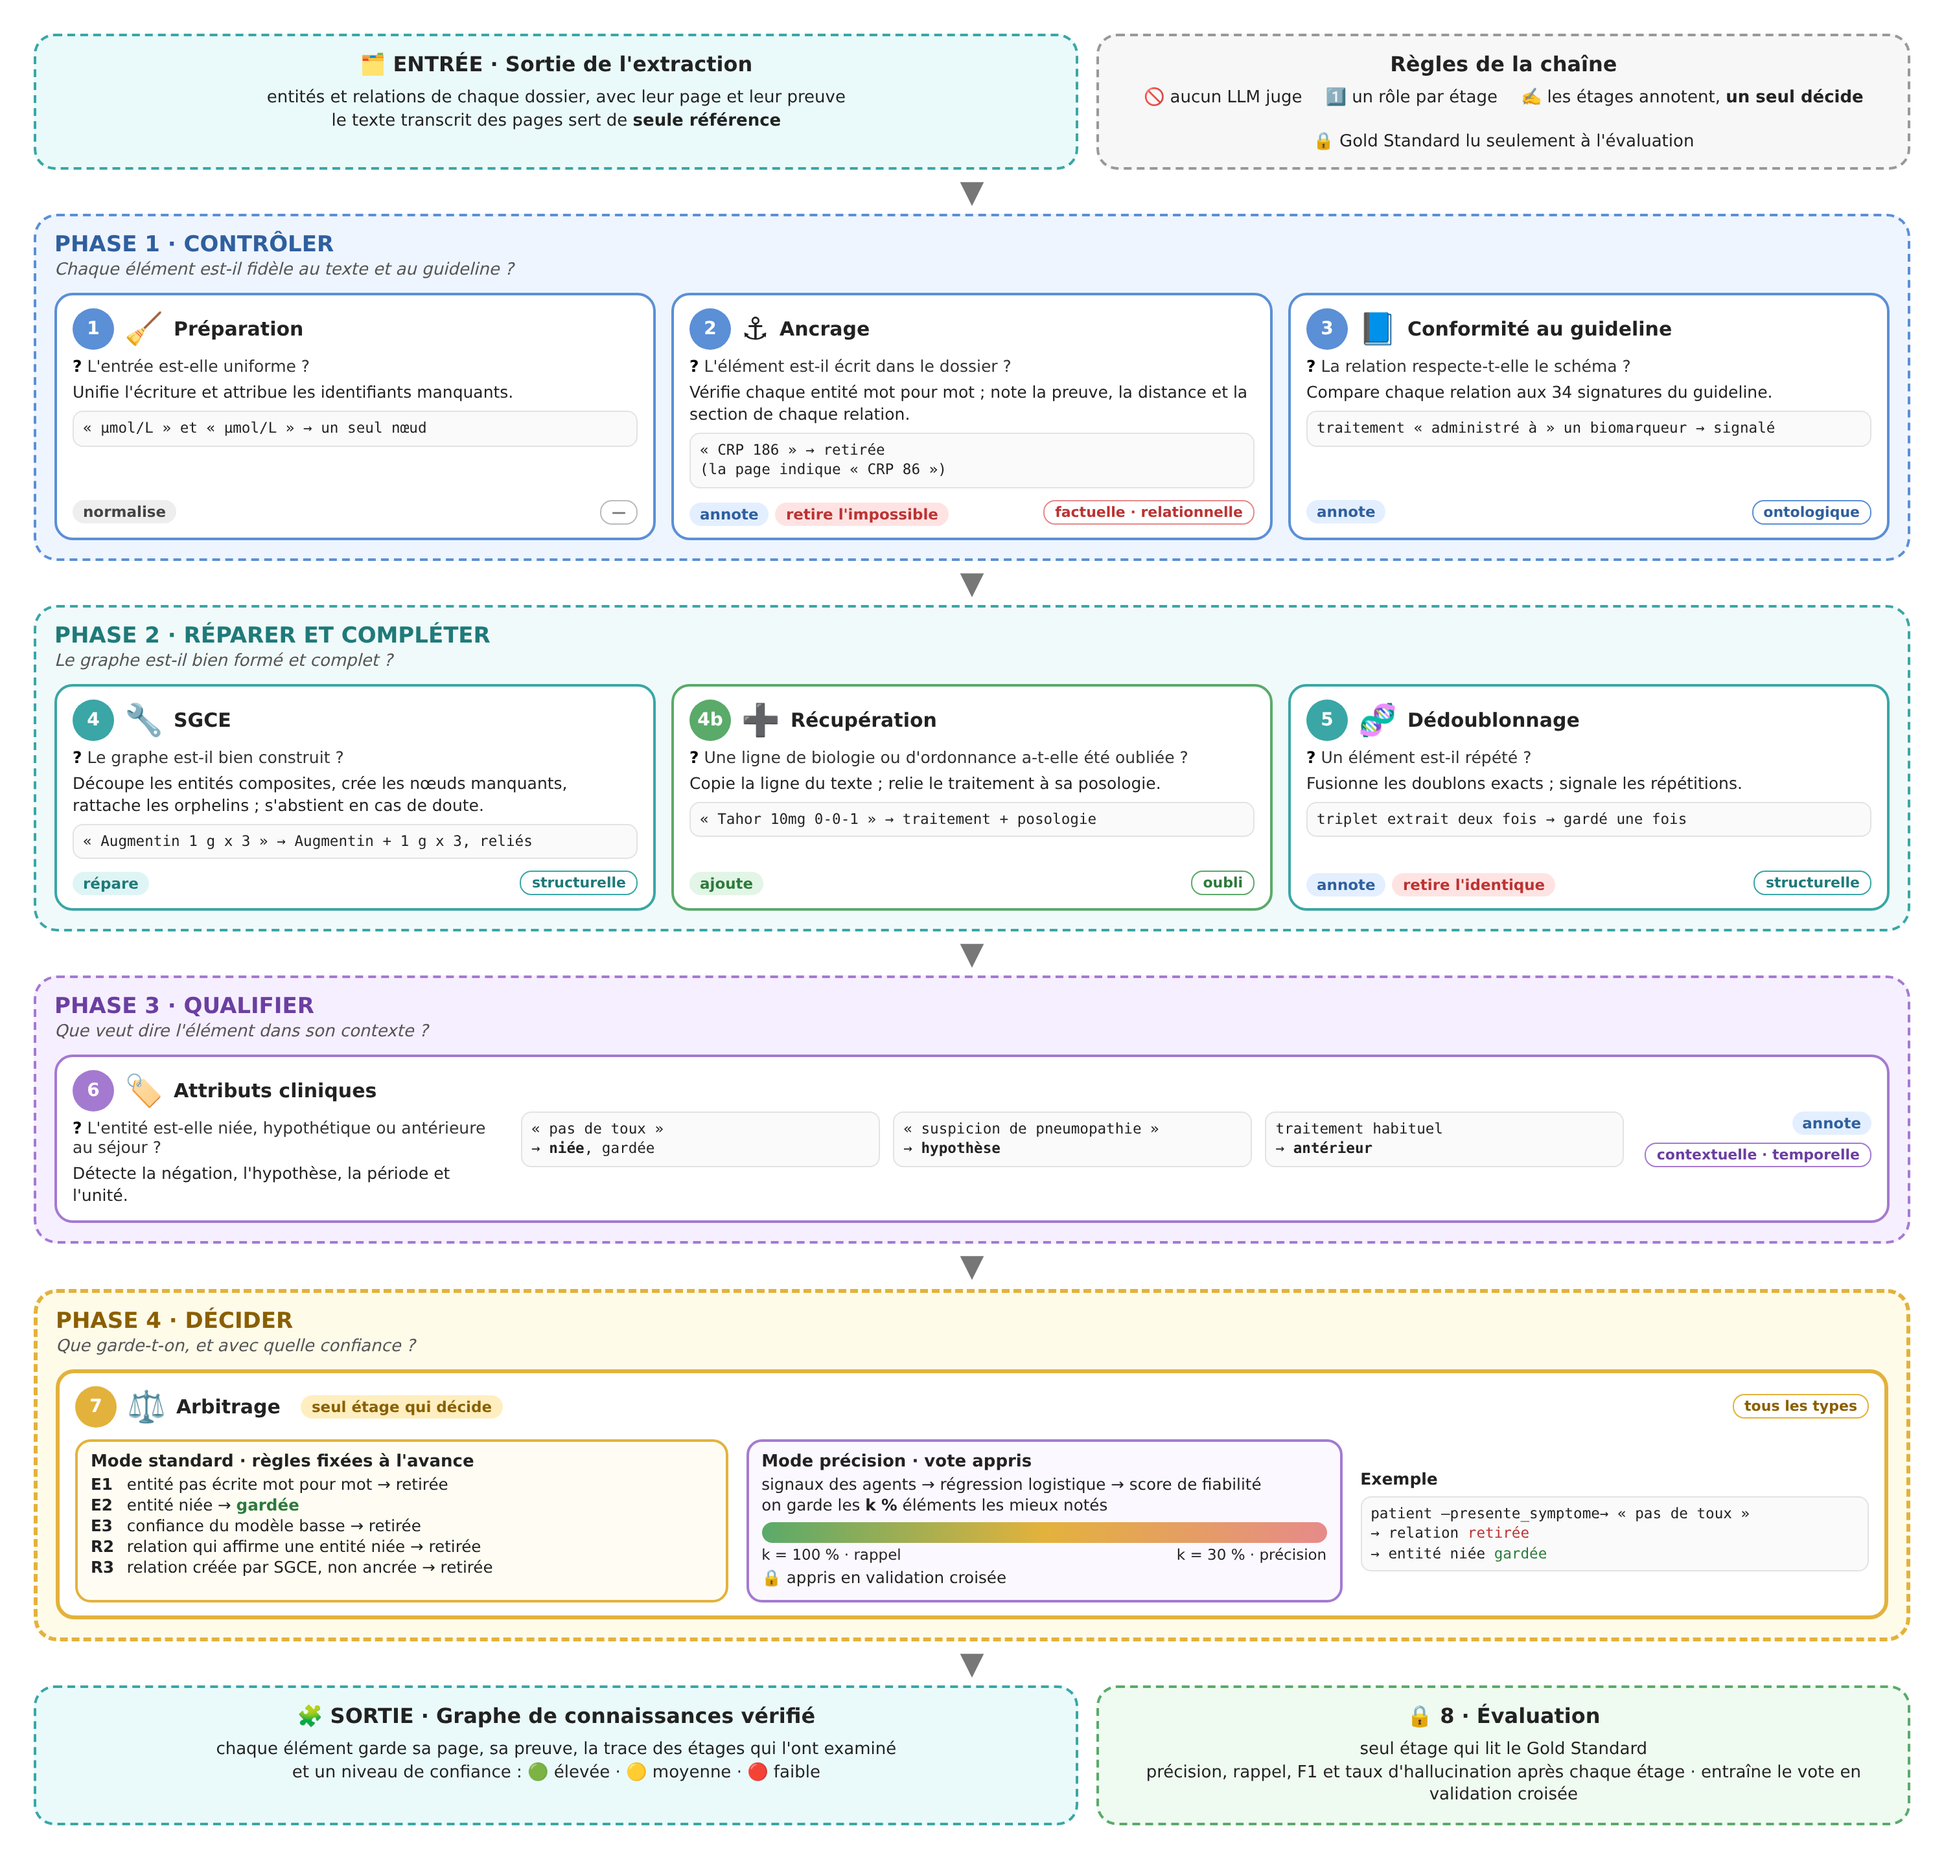
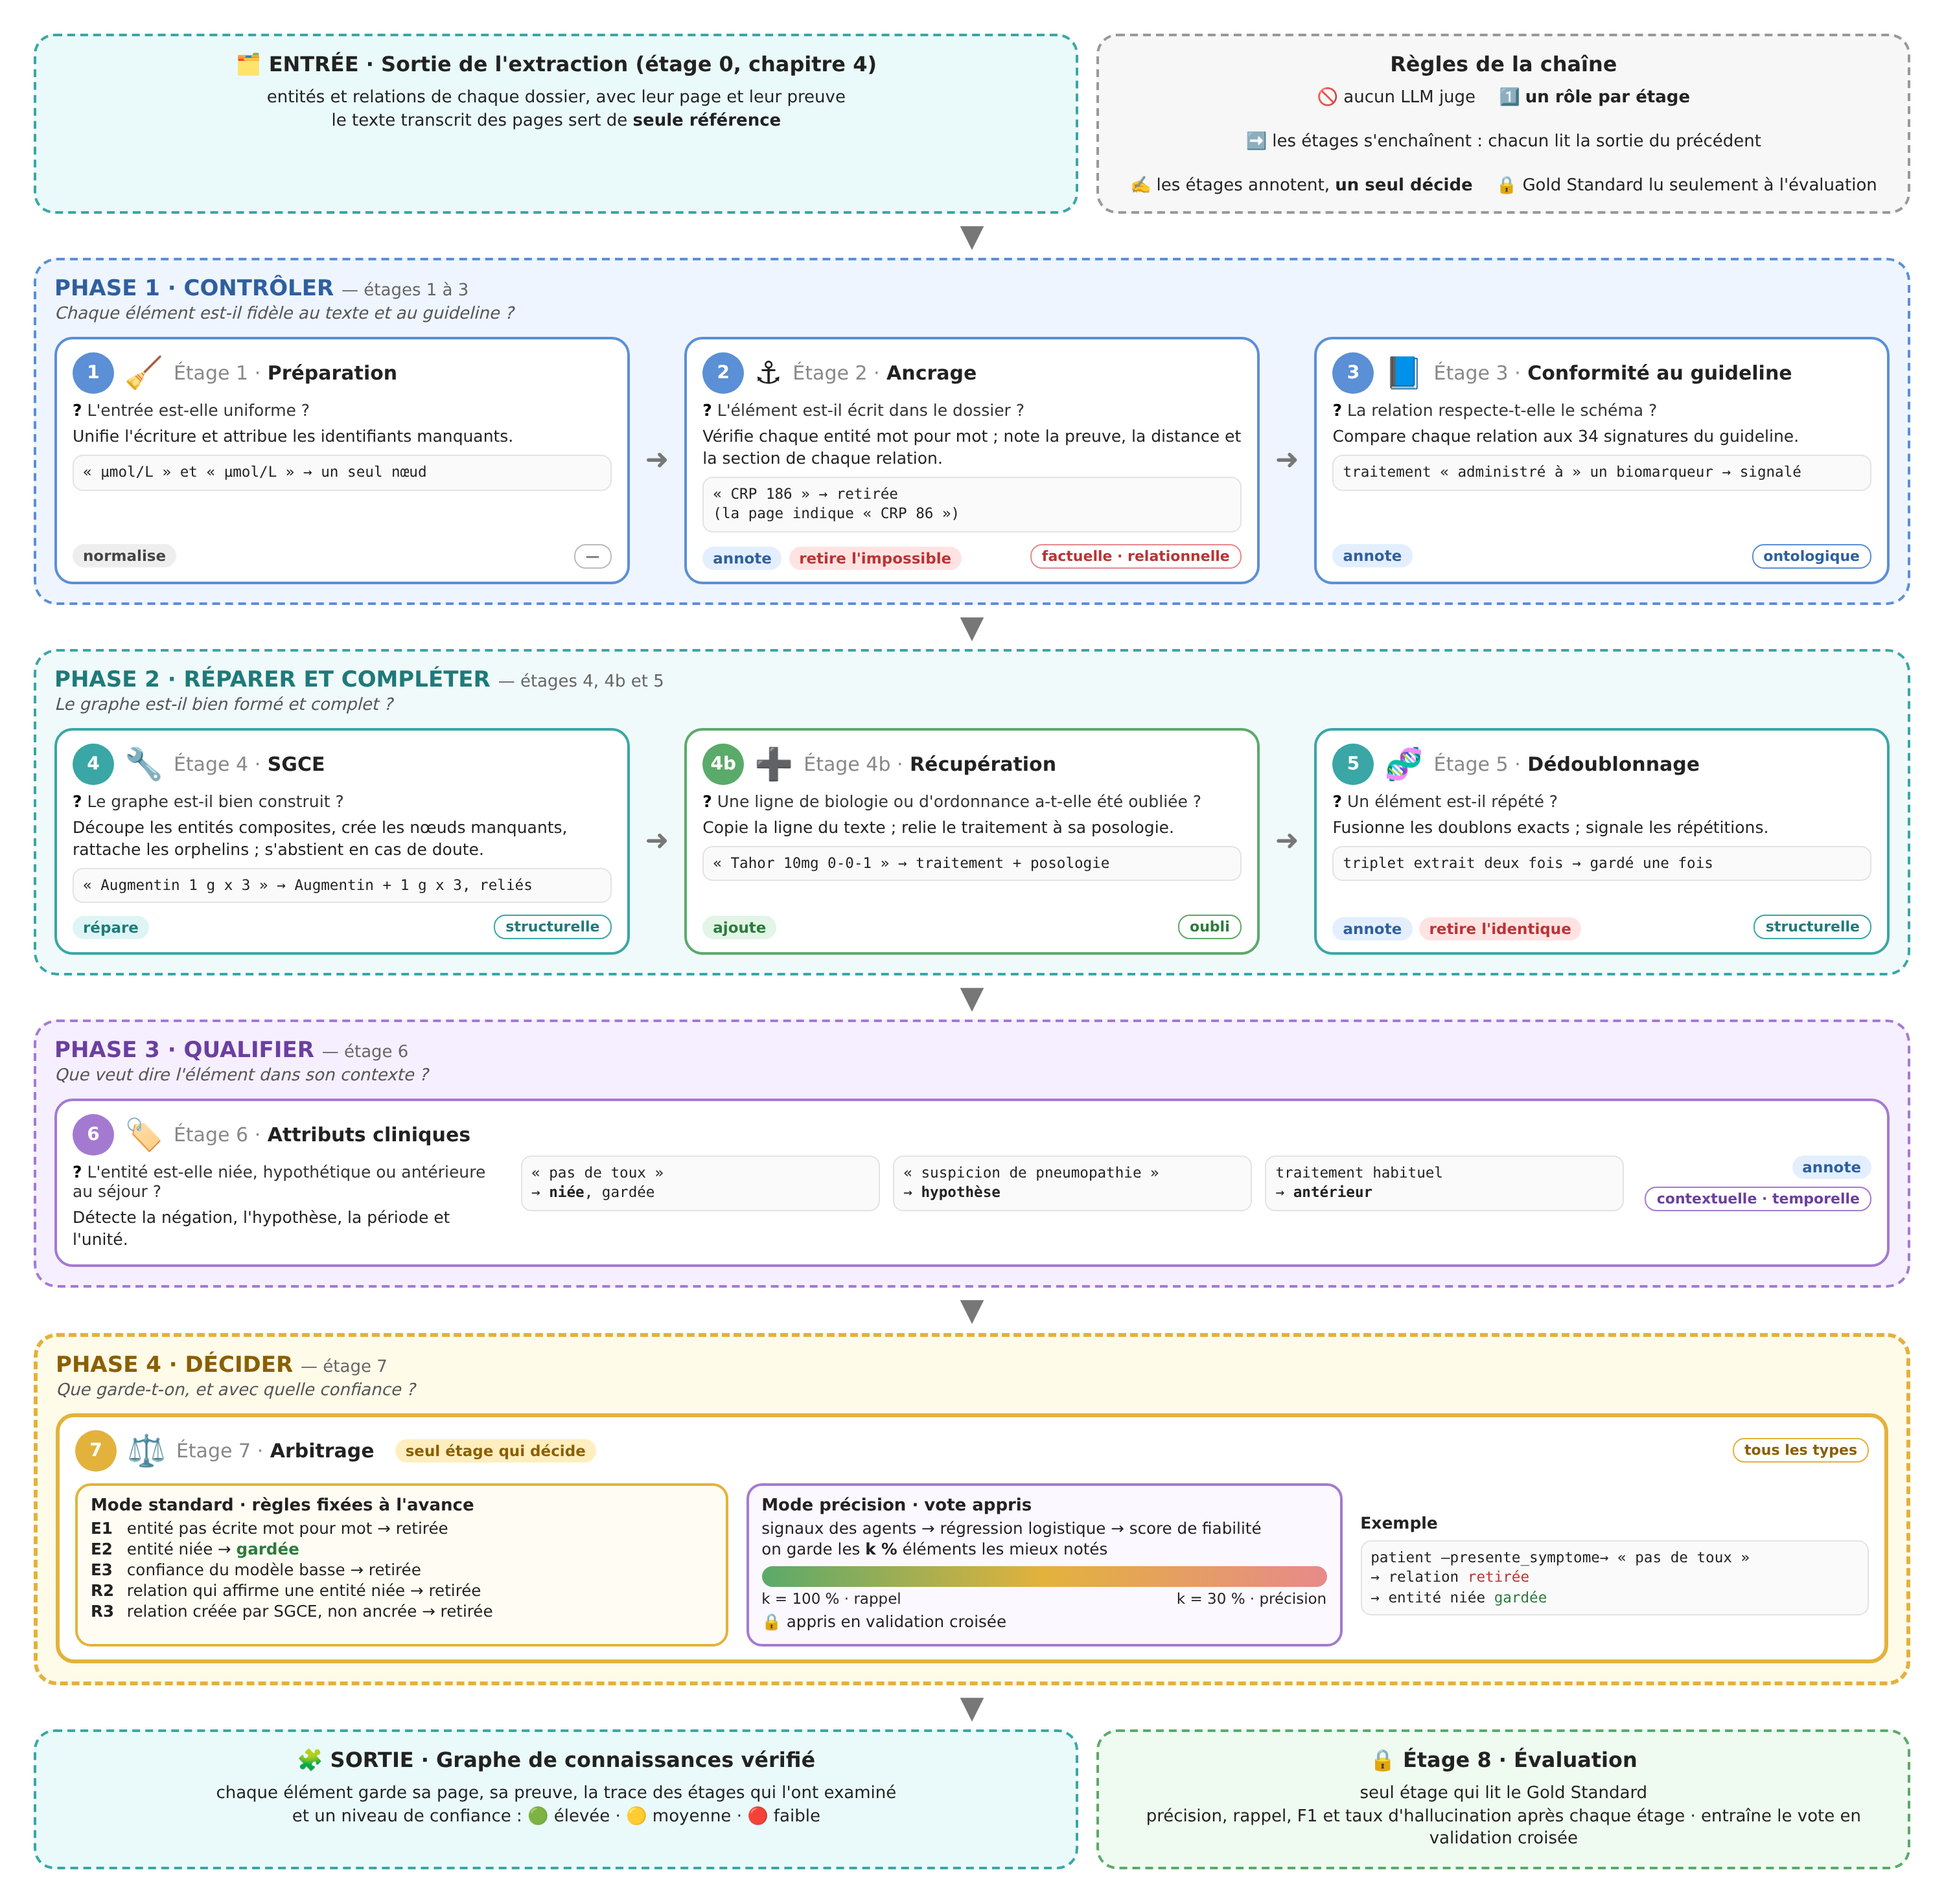
Figure TRACE : numéros d'étage explicites et flèches entre étages
Claude-Session: https://claude.ai/code/session_01U1N2aa47apfcVip95LQDuG

diff --git a/memoire/figures_sources/trace_phases.html b/memoire/figures_sources/trace_phases.html
@@ -27,23 +27,25 @@
 </style></head><body><div id="root">
 
 <div style="display:flex;gap:14px">
- <div class="box teal" style="flex:1.3"><div class="t">🗂 ENTRÉE · Sortie de l'extraction</div><div class="small" style="text-align:center">entités et relations de chaque dossier, avec leur page et leur preuve<br>le texte transcrit des pages sert de <b>seule référence</b></div></div>
- <div class="box grey" style="flex:1"><div class="t">Règles de la chaîne</div><div class="rules"><span>🚫 aucun LLM juge</span><span>1⃣ un rôle par étage</span><span>✍ les étages annotent, <b>un seul décide</b></span><span>🔒 Gold Standard lu seulement à l'évaluation</span></div></div>
+ <div class="box teal" style="flex:1.3"><div class="t">🗂 ENTRÉE · Sortie de l'extraction (étage 0, chapitre 4)</div><div class="small" style="text-align:center">entités et relations de chaque dossier, avec leur page et leur preuve<br>le texte transcrit des pages sert de <b>seule référence</b></div></div>
+ <div class="box grey" style="flex:1"><div class="t">Règles de la chaîne</div><div class="rules"><span>🚫 aucun LLM juge</span><span>1⃣ <b>un rôle par étage</b></span><span>➡ les étages s'enchaînent : chacun lit la sortie du précédent</span><span>✍ les étages annotent, <b>un seul décide</b></span><span>🔒 Gold Standard lu seulement à l'évaluation</span></div></div>
 </div>
 <div class="down">▼</div>
 
 <div class="ph blue">
- <div class="pt" style="color:#2f5f9e">PHASE 1 · CONTRÔLER</div><div class="pq">Chaque élément est-il fidèle au texte et au guideline ?</div>
+ <div class="pt" style="color:#2f5f9e">PHASE 1 · CONTRÔLER <span style="font-weight:normal;font-size:13px;color:#666">— étages 1 à 3</span></div><div class="pq">Chaque élément est-il fidèle au texte et au guideline ?</div>
  <div class="cards">
-  <div class="card" style="border-color:#5b8fd6"><div class="hd"><div class="num" style="background:#5b8fd6">1</div><span class="ic">🧹</span><span class="nm">Préparation</span></div>
+  <div class="card" style="border-color:#5b8fd6"><div class="hd"><div class="num" style="background:#5b8fd6">1</div><span class="ic">🧹</span><span class="nm"><span style="color:#888;font-weight:normal">Étage 1 ·</span> Préparation</span></div>
    <div class="q"><b>?</b> L'entrée est-elle uniforme ?</div><div class="rl">Unifie l'écriture et attribue les identifiants manquants.</div>
    <div class="ex">« µmol/L » et « μmol/L » → un seul nœud</div>
    <div class="foot"><span class="act nor">normalise</span><span class="ty" style="border-color:#bbb;color:#777">—</span></div></div>
-  <div class="card" style="border-color:#5b8fd6"><div class="hd"><div class="num" style="background:#5b8fd6">2</div><span class="ic">⚓</span><span class="nm">Ancrage</span></div>
+  <div style="align-self:center;font-size:22px;color:#777">➜</div>
+  <div class="card" style="border-color:#5b8fd6"><div class="hd"><div class="num" style="background:#5b8fd6">2</div><span class="ic">⚓</span><span class="nm"><span style="color:#888;font-weight:normal">Étage 2 ·</span> Ancrage</span></div>
    <div class="q"><b>?</b> L'élément est-il écrit dans le dossier ?</div><div class="rl">Vérifie chaque entité mot pour mot ; note la preuve, la distance et la section de chaque relation.</div>
    <div class="ex">« CRP 186 » → retirée<br>(la page indique « CRP 86 »)</div>
    <div class="foot"><span><span class="act ann">annote</span> <span class="act ret">retire l'impossible</span></span><span class="ty" style="border-color:#e78a8a;color:#b33">factuelle · relationnelle</span></div></div>
-  <div class="card" style="border-color:#5b8fd6"><div class="hd"><div class="num" style="background:#5b8fd6">3</div><span class="ic">📘</span><span class="nm">Conformité au guideline</span></div>
+  <div style="align-self:center;font-size:22px;color:#777">➜</div>
+  <div class="card" style="border-color:#5b8fd6"><div class="hd"><div class="num" style="background:#5b8fd6">3</div><span class="ic">📘</span><span class="nm"><span style="color:#888;font-weight:normal">Étage 3 ·</span> Conformité au guideline</span></div>
    <div class="q"><b>?</b> La relation respecte-t-elle le schéma ?</div><div class="rl">Compare chaque relation aux 34 signatures du guideline.</div>
    <div class="ex">traitement « administré à » un biomarqueur → signalé</div>
    <div class="foot"><span class="act ann">annote</span><span class="ty" style="border-color:#5b8fd6;color:#2f5f9e">ontologique</span></div></div>
@@ -52,17 +54,19 @@
 <div class="down">▼</div>
 
 <div class="ph" style="border-color:#3aa6a6;background:#f1fafa">
- <div class="pt" style="color:#1f7a7a">PHASE 2 · RÉPARER ET COMPLÉTER</div><div class="pq">Le graphe est-il bien formé et complet ?</div>
+ <div class="pt" style="color:#1f7a7a">PHASE 2 · RÉPARER ET COMPLÉTER <span style="font-weight:normal;font-size:13px;color:#666">— étages 4, 4b et 5</span></div><div class="pq">Le graphe est-il bien formé et complet ?</div>
  <div class="cards">
-  <div class="card" style="border-color:#3aa6a6"><div class="hd"><div class="num" style="background:#3aa6a6">4</div><span class="ic">🔧</span><span class="nm">SGCE</span></div>
+  <div class="card" style="border-color:#3aa6a6"><div class="hd"><div class="num" style="background:#3aa6a6">4</div><span class="ic">🔧</span><span class="nm"><span style="color:#888;font-weight:normal">Étage 4 ·</span> SGCE</span></div>
    <div class="q"><b>?</b> Le graphe est-il bien construit ?</div><div class="rl">Découpe les entités composites, crée les nœuds manquants, rattache les orphelins ; s'abstient en cas de doute.</div>
    <div class="ex">« Augmentin 1 g x 3 » → Augmentin + 1 g x 3, reliés</div>
    <div class="foot"><span class="act rep">répare</span><span class="ty" style="border-color:#3aa6a6;color:#1f7a7a">structurelle</span></div></div>
-  <div class="card" style="border-color:#5aaa6a"><div class="hd"><div class="num" style="background:#5aaa6a">4b</div><span class="ic">➕</span><span class="nm">Récupération</span></div>
+  <div style="align-self:center;font-size:22px;color:#777">➜</div>
+  <div class="card" style="border-color:#5aaa6a"><div class="hd"><div class="num" style="background:#5aaa6a">4b</div><span class="ic">➕</span><span class="nm"><span style="color:#888;font-weight:normal">Étage 4b ·</span> Récupération</span></div>
    <div class="q"><b>?</b> Une ligne de biologie ou d'ordonnance a-t-elle été oubliée ?</div><div class="rl">Copie la ligne du texte ; relie le traitement à sa posologie.</div>
    <div class="ex">« Tahor 10mg 0-0-1 » → traitement + posologie</div>
    <div class="foot"><span class="act add">ajoute</span><span class="ty" style="border-color:#5aaa6a;color:#2d7a3c">oubli</span></div></div>
-  <div class="card" style="border-color:#3aa6a6"><div class="hd"><div class="num" style="background:#3aa6a6">5</div><span class="ic">🧬</span><span class="nm">Dédoublonnage</span></div>
+  <div style="align-self:center;font-size:22px;color:#777">➜</div>
+  <div class="card" style="border-color:#3aa6a6"><div class="hd"><div class="num" style="background:#3aa6a6">5</div><span class="ic">🧬</span><span class="nm"><span style="color:#888;font-weight:normal">Étage 5 ·</span> Dédoublonnage</span></div>
    <div class="q"><b>?</b> Un élément est-il répété ?</div><div class="rl">Fusionne les doublons exacts ; signale les répétitions.</div>
    <div class="ex">triplet extrait deux fois → gardé une fois</div>
    <div class="foot"><span><span class="act ann">annote</span> <span class="act ret">retire l'identique</span></span><span class="ty" style="border-color:#3aa6a6;color:#1f7a7a">structurelle</span></div></div>
@@ -71,10 +75,10 @@
 <div class="down">▼</div>
 
 <div class="ph purple">
- <div class="pt" style="color:#6b3fa0">PHASE 3 · QUALIFIER</div><div class="pq">Que veut dire l'élément dans son contexte ?</div>
+ <div class="pt" style="color:#6b3fa0">PHASE 3 · QUALIFIER <span style="font-weight:normal;font-size:13px;color:#666">— étage 6</span></div><div class="pq">Que veut dire l'élément dans son contexte ?</div>
  <div class="cards">
   <div class="card" style="border-color:#a47ad1;flex-direction:row;gap:16px;align-items:center">
-   <div style="width:330px;display:flex;flex-direction:column;gap:5px"><div class="hd"><div class="num" style="background:#a47ad1">6</div><span class="ic">🏷</span><span class="nm">Attributs cliniques</span></div>
+   <div style="width:330px;display:flex;flex-direction:column;gap:5px"><div class="hd"><div class="num" style="background:#a47ad1">6</div><span class="ic">🏷</span><span class="nm"><span style="color:#888;font-weight:normal">Étage 6 ·</span> Attributs cliniques</span></div>
     <div class="q"><b>?</b> L'entité est-elle niée, hypothétique ou antérieure au séjour ?</div><div class="rl">Détecte la négation, l'hypothèse, la période et l'unité.</div></div>
    <div style="flex:1;display:flex;gap:10px">
     <div class="ex" style="flex:1">« pas de toux »<br>→ <b>niée</b>, gardée</div>
@@ -88,9 +92,9 @@
 <div class="down">▼</div>
 
 <div class="ph yellow" style="border-width:3px">
- <div class="pt" style="color:#8a5f00">PHASE 4 · DÉCIDER</div><div class="pq">Que garde-t-on, et avec quelle confiance ?</div>
+ <div class="pt" style="color:#8a5f00">PHASE 4 · DÉCIDER <span style="font-weight:normal;font-size:13px;color:#666">— étage 7</span></div><div class="pq">Que garde-t-on, et avec quelle confiance ?</div>
  <div class="card" style="border-color:#e3b23c;border-width:3px">
-  <div class="hd"><div class="num" style="background:#e3b23c">7</div><span class="ic">⚖</span><span class="nm">Arbitrage</span><span class="act dec" style="margin-left:8px">seul étage qui décide</span><span class="ty" style="margin-left:auto;border-color:#e3b23c;color:#8a5f00">tous les types</span></div>
+  <div class="hd"><div class="num" style="background:#e3b23c">7</div><span class="ic">⚖</span><span class="nm"><span style="color:#888;font-weight:normal">Étage 7 ·</span> Arbitrage</span><span class="act dec" style="margin-left:8px">seul étage qui décide</span><span class="ty" style="margin-left:auto;border-color:#e3b23c;color:#8a5f00">tous les types</span></div>
   <div style="display:flex;gap:14px;margin-top:4px">
    <div style="flex:1.1;border:2px solid #e3b23c;border-radius:12px;padding:8px 10px;background:#fffdf3"><div style="font-weight:bold;font-size:13px;margin-bottom:3px">Mode standard · règles fixées à l'avance</div>
     <div class="r"><b>E1</b> entité pas écrite mot pour mot → retirée</div>
@@ -112,6 +116,6 @@
 
 <div style="display:flex;gap:14px">
  <div class="box teal" style="flex:1.3;text-align:center"><div class="t">🧩 SORTIE · Graphe de connaissances vérifié</div><div class="small">chaque élément garde sa page, sa preuve, la trace des étages qui l'ont examiné<br>et un niveau de confiance : 🟢 élevée · 🟡 moyenne · 🔴 faible</div></div>
- <div class="box green" style="flex:1;text-align:center"><div class="t">🔒 8 · Évaluation</div><div class="small">seul étage qui lit le Gold Standard<br>précision, rappel, F1 et taux d'hallucination après chaque étage · entraîne le vote en validation croisée</div></div>
+ <div class="box green" style="flex:1;text-align:center"><div class="t">🔒 Étage 8 · Évaluation</div><div class="small">seul étage qui lit le Gold Standard<br>précision, rappel, F1 et taux d'hallucination après chaque étage · entraîne le vote en validation croisée</div></div>
 </div>
 </div></body></html>
